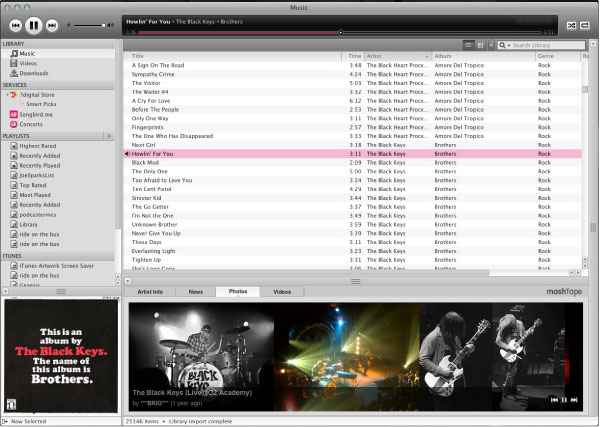
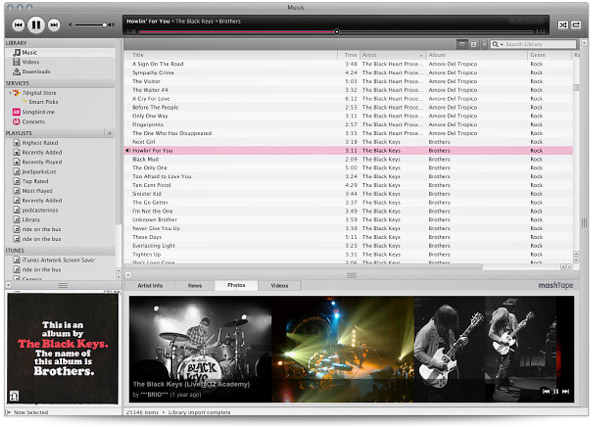
Updated desktop/mobile page images.  Swapped download button. Worked on slide show pause...

diff --git a/index.php b/index.php
@@ -39,13 +39,17 @@
 <script type="text/javascript" src="http://cloud.github.com/downloads/malsup/cycle/jquery.cycle.all.latest.js"></script>
 <script type="text/javascript">
 $(function() {
+  
   $('#slides img:first').fadeIn(1000, function() {
     $('#slides').cycle({
-      autostop: 0,
-      pause: 1 
-    });
-  });
+	    autostop: 0,
+	    pause: 1
+	  });
+	});
 });
+
+
+
 $(function(){
     $("ul#ticker01").liScroll();
 });
@@ -62,10 +66,10 @@ jQuery(function(){
   <div id="main-content">
     <div id="rotator">
       <div id="slides">
-        <img src="images/slides/1.png" border="0" style="margin-left:24px">
-        <img src="images/slides/2.png" border="0" style="display:none">
-        <img src="images/slides/3.png" border="0" style="margin-left:20px; display:none">
-        <img src="images/slides/4.png" border="0" style="margin-left:24px; display: none">
+        <img src="images/slides/1.png" border="0" style="display: none;">
+        <img src="images/slides/2.png" border="0" style="display: none;">
+        <img src="images/slides/3.png" border="0" style="display: none;">
+        <img src="images/slides/4.png" border="0" style="display: none;">
       </div>
     </div><!--rotator -->
     <div id="bottom-content">
